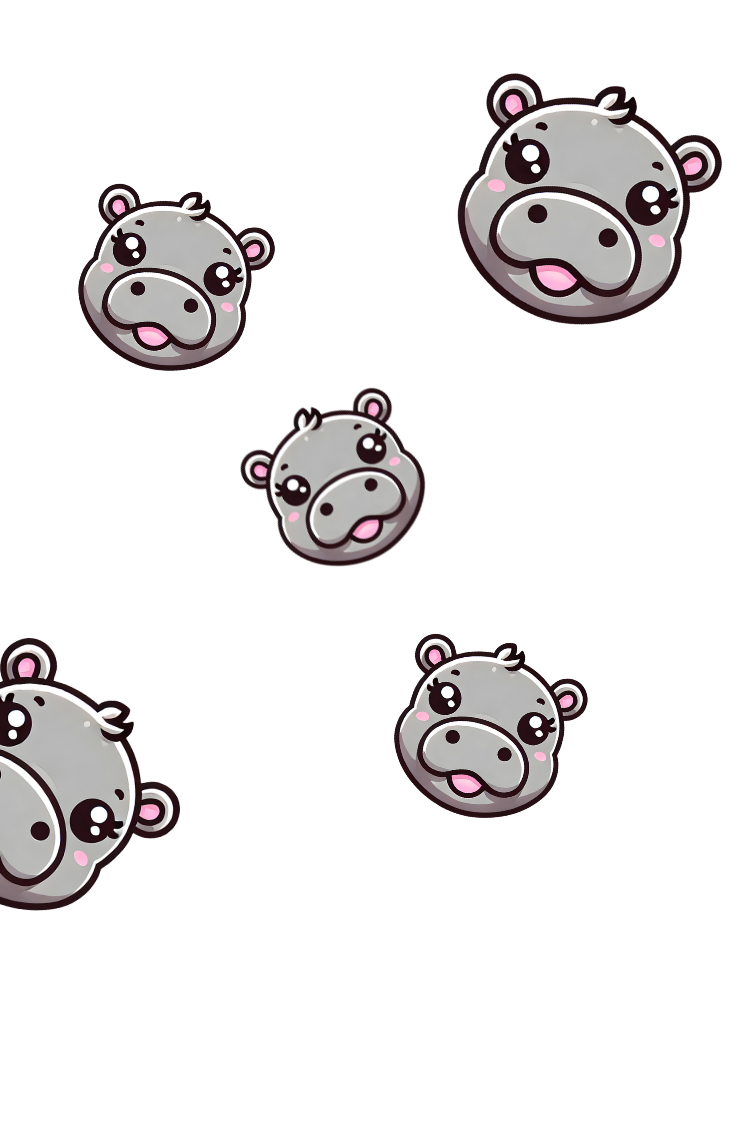
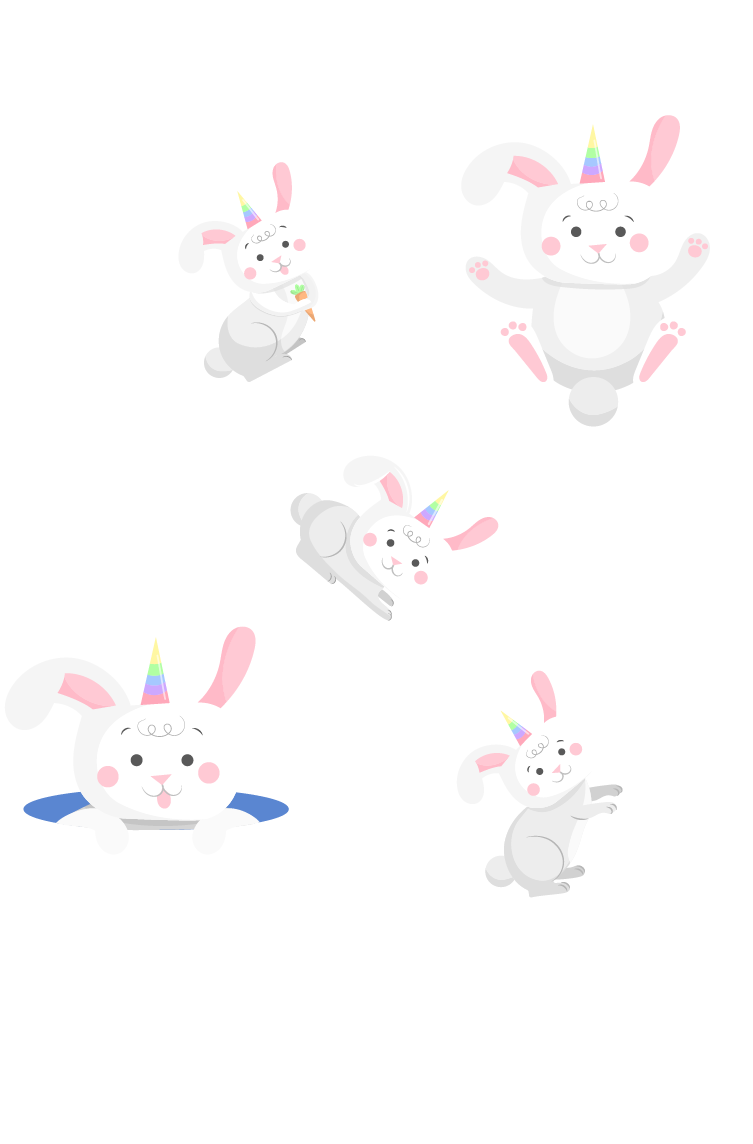
fix

diff --git a/index.html b/index.html
@@ -4,30 +4,26 @@
 <head>
   <meta charset="UTF-8">
   <meta name="viewport" content="width=device-width, initial-scale=1.0">
-  <title>Fiona Sui | $FIONA</title>
-  <meta name="description"
-    content="Fiona&#039;s journey to stardom began under challenging circumstances. Born six weeks prematurely, she faced significant health challenges that were closely fol">
+  <title>UniRabbit | $UniRabbit</title>
+  <meta name="description" content="UniRabbit&#039;s journey to stardom began under challenging circumstances.">
 
   <!-- Google / Search Engine Tags -->
-  <meta itemprop="name" content="Fiona Sui | $FIONA">
-  <meta itemprop="description"
-    content="Fiona&#039;s journey to stardom began under challenging circumstances. Born six weeks prematurely, she faced significant health challenges that were closely fol">
-  <meta itemprop="image" content="https://s3.amazonaws.com/i.snag.gy/zMmGeY.jpg">
+  <meta itemprop="name" content="UniRabbit  | $UniRabbit">
+  <meta itemprop="description" content="UniRabbit&#039;s journey to stardom began under challenging circumstances.">
+  <meta itemprop="image" content="./images/logo.png">
 
   <!-- Facebook Meta Tags -->
-  <meta property="og:url" content="https://fionaerc.org/">
+
   <meta property="og:type" content="website">
-  <meta property="og:title" content="Fiona Sui | $FIONA">
-  <meta property="og:description"
-    content="Fiona&#039;s journey to stardom began under challenging circumstances. Born six weeks prematurely, she faced significant health challenges that were closely fol">
+  <meta property="og:title" content="UniRabbit  | $UniRabbit">
+  <meta property="og:description" content="UniRabbit&#039;s journey to stardom began under challenging circumstances.">
   <meta property="og:image" content="images/zMmGeY.jpg">
 
   <!-- Twitter Meta Tags -->
   <meta name="twitter:card" content="summary_large_image">
-  <meta name="twitter:title" content="Fiona Sui | $FIONA">
-  <meta name="twitter:description"
-    content="Fiona&#039;s journey to stardom began under challenging circumstances. Born six weeks prematurely, she faced significant health challenges that were closely fol">
-  <meta name="twitter:image" content="https://s3.amazonaws.com/i.snag.gy/zMmGeY.jpg">
+  <meta name="twitter:title" content="UniRabbit  | $UniRabbit">
+  <meta name="twitter:description" content="UniRabbit&#039;s journey to stardom began under challenging circumstances.">
+  <meta name="twitter:image" content="./images/logo.png">
   <link rel="shortcut icon" href="images/logo.png" type="image/png">
   <link rel="stylesheet" href="css/main%C3%AF%C2%B9_v%3D3.css">
 </head>
@@ -51,38 +47,35 @@
         <nav class="header__nav">
           <a href="index.html#home">Home</a>
           <a href="">Contract</a>
-          <a
-            href="https://movepump.com/token/0x2c0336e74a0b3b34a1118e8cced89c59177635804af3505975e0f6f6f552a0b0::fiora::FIORA">Chart</a>
-          <a href="https://x.com/FionaSui_">Twitter</a>
-          <a href="https://t.me/FionaSui_Portal">Telegram</a>
+          <a href="">Chart</a>
+          <a href="https://x.com/UniRabbit_">Twitter</a>
+          <a href="https://t.me/UniRabbit_Portal">Telegram</a>
         </nav>
-        <a class="header__btn btn"
-          href="https://movepump.com/token/0x2c0336e74a0b3b34a1118e8cced89c59177635804af3505975e0f6f6f552a0b0::fiora::FIORA"
-          target="_blank">Buy $FIONA</a>
+        <a class="header__btn btn" href="" target="_blank">Buy $UniRabbit</a>
         <button class="header__burger btn">
           <span></span><span></span><span></span>
         </button>
       </div>
     </header>
-    <section id="home" class="hero">
+    <section style="background-image: url(./images//buy-left.png);" id="home" class="hero">
       <img class="hero__glare" src="fonts/hero-glare.svg" alt>
       <img class="hero__clouds" src="images/hero-clouds.png" alt>
-      <img class="hero__cat" src="images/hero-cat.png" alt>
+      <img class="hero__cat" src="images/Artboard 1 (2).png" alt>
       <div class="hero__container container">
-        <img class="hero__title" src="images/hero-title.png" alt="Fiona">
+        <img class="hero__title" src="images/hero-title.png" alt="UniRabbit">
         <p class="hero__text">
           In the rapidly evolving world of cryptocurrency, where meme coins have become a significant trend, the story
-          of Fiona the hippo stands out as a unique blend of cultural phenomenon and blockchain innovation.
+          of UniRabbit the stands out as a unique blend of cultural phenomenon and blockchain innovation.
         </p>
         <div class="hero__socials">
-          <a class="hero__social-btn btn btn_icon" href="https://t.me/FionaSui_Portal" target="_blank">
+          <a class="hero__social-btn btn btn_icon" href="https://t.me/UniRabbit_Portal" target="_blank">
             <svg width="43" height="43" viewBox="0 0 43 43" fill="none" xmlns="http://www.w3.org/2000/svg">
               <path
                 d="M36.603 6.80442C36.603 6.80442 40.0026 5.4788 39.7193 8.69818C39.6249 10.0238 38.775 14.6635 38.1139 19.682L35.8475 34.548C35.8475 34.548 35.6587 36.7258 33.9588 37.1045C32.259 37.4832 29.7093 35.7789 29.2371 35.4001C28.8593 35.1161 22.1546 30.8551 19.7936 28.772C19.1326 28.2039 18.3771 27.0676 19.8881 25.742L29.8037 16.2732C30.9369 15.137 32.0701 12.4857 27.3484 15.7051L14.1276 24.7005C14.1276 24.7005 12.6166 25.6473 9.78364 24.7951L3.64536 22.9014C3.64536 22.9014 1.37892 21.4811 5.25075 20.0607C14.6942 15.6103 26.3097 11.0653 36.603 6.80442Z"
                 fill="currentColor" />
             </svg>
           </a>
-          <a class="hero__social-btn btn btn_icon" href="https://x.com/FionaSui_" target="_blank">
+          <a class="hero__social-btn btn btn_icon" href="https://x.com/UniRabbit_" target="_blank">
             <svg width="39" height="39" viewBox="0 0 39 39" fill="none" xmlns="http://www.w3.org/2000/svg">
               <path
                 d="M27.9541 5.34119H32.5933L22.4073 17.8633L34.3078 34.8498H24.9689L17.6572 24.5272L9.28649 34.8498H4.64732L15.4384 21.4566L4.04221 5.34119H13.613L20.2188 14.7709L27.9541 5.34119ZM26.3304 31.9098H28.9021L12.2616 8.17227H9.49828L26.3304 31.9098Z"
@@ -137,7 +130,7 @@
             </div>
             <div class="tokenomics__contract contract">
               <p class="contract__contract">
-                0x2c0336e74a0b3b34a1118e8cced89c59177635804af3505975e0f6f6f552a0b0::fiora::FIORA
+                TBA
               </p>
               <button class="contract__btn btn">Copy</button>
             </div>
@@ -150,15 +143,17 @@
       <img class="about__right" src="fonts/about-right.svg" alt>
       <div class="about__container container">
         <div class="about__col">
-          <h2 class="buy__title">More About $FIONA</h2>
+          <h2 class="buy__title">More About $UniRabbit</h2>
 
           <p class="about__text">
-            Fiona's journey to stardom began under challenging circumstances. Born six weeks prematurely, she faced
+            UniRabbit's journey to stardom began under challenging circumstances. Born six weeks prematurely, she faced
             significant health challenges that were closely followed by millions worldwide. The Cincinnati Zoo's
-            documentation of her struggle and eventual recovery turned her into a viral sensation, with Fiona becoming a
+            documentation of her struggle and eventual recovery turned her into a viral sensation, with UniRabbit
+            becoming a
             symbol of perseverance and an ambassador for her species <br><br>
             The success of Moo Deng, a memecoin inspired by a baby pygmy hippo from Thailand, provides a compelling case
-            study for $FIONA's potential on the Sui blockchain. Moo Deng gained significant attention when Sui
+            study for $UniRabbit's potential on the Uni blockchain. Moo Deng gained significant attention when Ethereum
+            Chain
             co-founder Vitalik Buterin sold 10 billion Moo Deng tokens for a charitable cause, leading to a surge in the
             coin's price
           </p>
@@ -169,22 +164,22 @@
       <img class="buy__left" src="images/buy-left.png" alt>
       <img class="buy__right" src="images/buy-right.png" alt>
       <div class="buy__container container">
-        <h2 class="buy__title">❤ FIONA ❤</h2>
+        <h2 class="buy__title">❤ UniRabbit ❤</h2>
         <div class="buy__items">
           <div class="buy__item">
             <img class="buy__number" src="images/faq.png">
             <p class="buy__text">
               <span style="font-size: 2em;">Strategic Partnerships</span><br>
               Collaborating with influential figures in the crypto space, similar to Moo Deng's association with Vitalik
-              Buterin, could significantly enhance $FIONA's visibility and credibility. Engaging with blockchain
-              influencers and thought leaders would help amplify Fiona's story and attract a broader audience.
+              Buterin, could significantly enhance $UniRabbit's visibility and credibility. Engaging with blockchain
+              influencers and thought leaders would help amplify UniRabbit's story and attract a broader audience.
             </p>
           </div>
           <div class="buy__item">
             <img class="buy__number" src="images/faq.png">
             <p class="buy__text">
               <span style="font-size: 2em;">Philanthropic Initiatives</span><br>
-              Leveraging Fiona's role as an ambassador for hippos, $FIONA could support conservation efforts and
+              Leveraging UniRabbit's role as an ambassador for hippos, $UniRabbit could support conservation efforts and
               initiatives aimed at protecting hippo habitats. By aligning with environmental causes, the memecoin could
               appeal to socially conscious investors and strengthen its community engagement.
             </p>
@@ -193,7 +188,7 @@
             <img class="buy__number" src="images/faq.png">
             <p class="buy__text">
               <span style="font-size: 2em;">Community Development</span><br>
-              Emphasizing community involvement in the development and governance of $FIONA would foster a sense of
+              Emphasizing community involvement in the development and governance of $UniRabbit would foster a sense of
               ownership among token holders. Implementing decentralized decision-making processes and encouraging
               user-generated content could enhance the coin's appeal and sustainability.
             </p>
@@ -204,7 +199,8 @@
               <span style="font-size: 2em;">Marketing Campaigns</span><br>
 
               Launch focused marketing campaigns across social media, crypto forums, and influencer channels to raise
-              awareness of $FIONA. Collaborating with well-known crypto influencers and running paid ads on social media
+              awareness of $UniRabbit. Collaborating with well-known crypto influencers and running paid ads on social
+              media
               platforms.
             </p>
           </div>
@@ -216,14 +212,14 @@
     <footer class="footer">
       <div class="footer__container container">
         <div class="footer__socials">
-          <a class="footer__social-btn btn btn_icon" href="https://t.me/FionaSui_Portal" target="_blank">
+          <a class="footer__social-btn btn btn_icon" href="https://t.me/UniRabbit_Portal" target="_blank">
             <svg width="43" height="43" viewBox="0 0 43 43" fill="none" xmlns="http://www.w3.org/2000/svg">
               <path
                 d="M36.603 6.80442C36.603 6.80442 40.0026 5.4788 39.7193 8.69818C39.6249 10.0238 38.775 14.6635 38.1139 19.682L35.8475 34.548C35.8475 34.548 35.6587 36.7258 33.9588 37.1045C32.259 37.4832 29.7093 35.7789 29.2371 35.4001C28.8593 35.1161 22.1546 30.8551 19.7936 28.772C19.1326 28.2039 18.3771 27.0676 19.8881 25.742L29.8037 16.2732C30.9369 15.137 32.0701 12.4857 27.3484 15.7051L14.1276 24.7005C14.1276 24.7005 12.6166 25.6473 9.78364 24.7951L3.64536 22.9014C3.64536 22.9014 1.37892 21.4811 5.25075 20.0607C14.6942 15.6103 26.3097 11.0653 36.603 6.80442Z"
                 fill="currentColor" />
             </svg>
           </a>
-          <a class="footer__social-btn btn btn_icon" href="https://x.com/FionaSui_" target="_blank">
+          <a class="footer__social-btn btn btn_icon" href="https://x.com/UniRabbit_" target="_blank">
             <svg width="39" height="39" viewBox="0 0 39 39" fill="none" xmlns="http://www.w3.org/2000/svg">
               <path
                 d="M27.9541 5.34119H32.5933L22.4073 17.8633L34.3078 34.8498H24.9689L17.6572 24.5272L9.28649 34.8498H4.64732L15.4384 21.4566L4.04221 5.34119H13.613L20.2188 14.7709L27.9541 5.34119ZM26.3304 31.9098H28.9021L12.2616 8.17227H9.49828L26.3304 31.9098Z"
@@ -231,7 +227,7 @@
             </svg>
           </a>
 
-          <a class="footer__social-btn btn btn_icon" href="https://dexscreener.com/ethereum" target="_blank">
+          <a class="footer__social-btn btn btn_icon" href="https://dexscreener.com/" target="_blank">
             <svg width="37" height="43" viewBox="0 0 37 43" fill="none" xmlns="http://www.w3.org/2000/svg">
               <g>
                 <path fill-rule="evenodd" clip-rule="evenodd"
@@ -247,7 +243,7 @@
 
         </div>
         <p class="footer__disclaimer">
-          TEAM@FIONASUI.PRO
+          TEAM@unirabbit.xyz
         </p>
 
         <a class="footer__logo" href="index.html">
